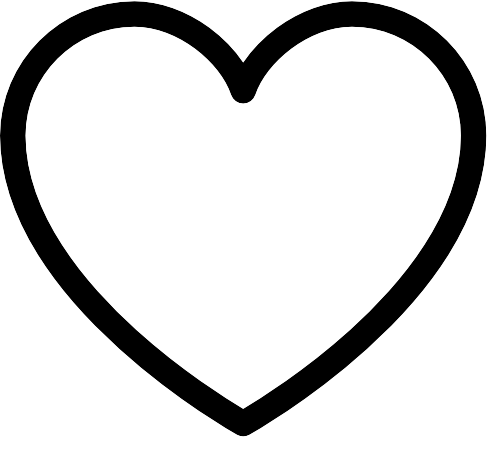
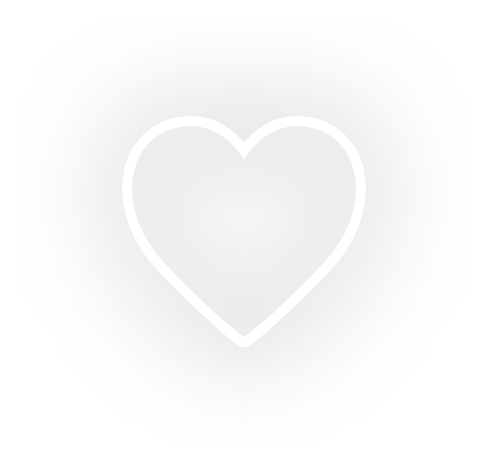
[수정] 아이콘 수정

Changed region(s): [[0.0, 0.0, 1.0, 0.9394]]

diff --git a/frontend/src/pages/guest/wishItem.js b/frontend/src/pages/guest/wishItem.js
@@ -32,7 +32,8 @@ function WishItem({HoIdx, HoName, HoImg, wIdx, dIdx}) {
                     <input type="hidden" value={wIdx}></input>
                     
                     </Link>
-                    <button type='button' className="wish-button" onClick={() => {
+                    <button type='button' style={{border: 0, backgroundColor: 'transparent', position: 'absolute', 
+                    top:'8px', left:'250px'}} onClick={() => {
                 Swal.fire({
                     text: '정말 삭제하시겠습니까?',
                     confirmButtonText: "삭제",
@@ -54,7 +55,7 @@ function WishItem({HoIdx, HoName, HoImg, wIdx, dIdx}) {
                     }
                 });
             }}>
-                    <img src='/img/black_heart.png' width='28px' height='35px' />
+                    <img src='/img/black_heart.png' width='65px' height='65px' />
                 </button>
                 <br />
                 &nbsp;

diff --git a/frontend/src/pages/guest/recentItem.js b/frontend/src/pages/guest/recentItem.js
@@ -74,8 +74,9 @@ function RecentItem({HoIdx, HoName, HoImg, check, dIdx}) {
                     <div style={{fontSize:"20px", color: 'black'}}>{HoName}</div>
                     
                     </Link>
-                    <button type='button' className="wish-button" onClick={() => handleClick()}>
-                    <img src = {image}  width='28px' height='35px'/>
+                    <button type='button' style={{border: 0, backgroundColor: 'transparent', position: 'absolute', 
+                    top:'8px', left:'250px'}} onClick={() => handleClick()}>
+                    <img src = {image}   width='65px' height='65px'/>
                 </button>
                 <br />
                 &nbsp;

diff --git a/frontend/src/component/HotelItem.js b/frontend/src/component/HotelItem.js
@@ -78,8 +78,8 @@ function HotelItem({HoIdx,HoName, HoImg, check}) {
                             ₩68,717 /박
                             </Link>           
                     <button type='button' style={{border: 0, backgroundColor: 'transparent', position: 'absolute', 
-                    top:'20px', left:'320px'}} onClick={() => {handleClick()}}>
-                    <img src={image} width='28px' height='35px' />
+                    top:'8px', left:'295px'}} onClick={() => {handleClick()}}>
+                    <img src={image} width='70px' height='70px' />
                     </button>
                     <input type='hidden' id={checkId} value={check}></input>
                 <br />
